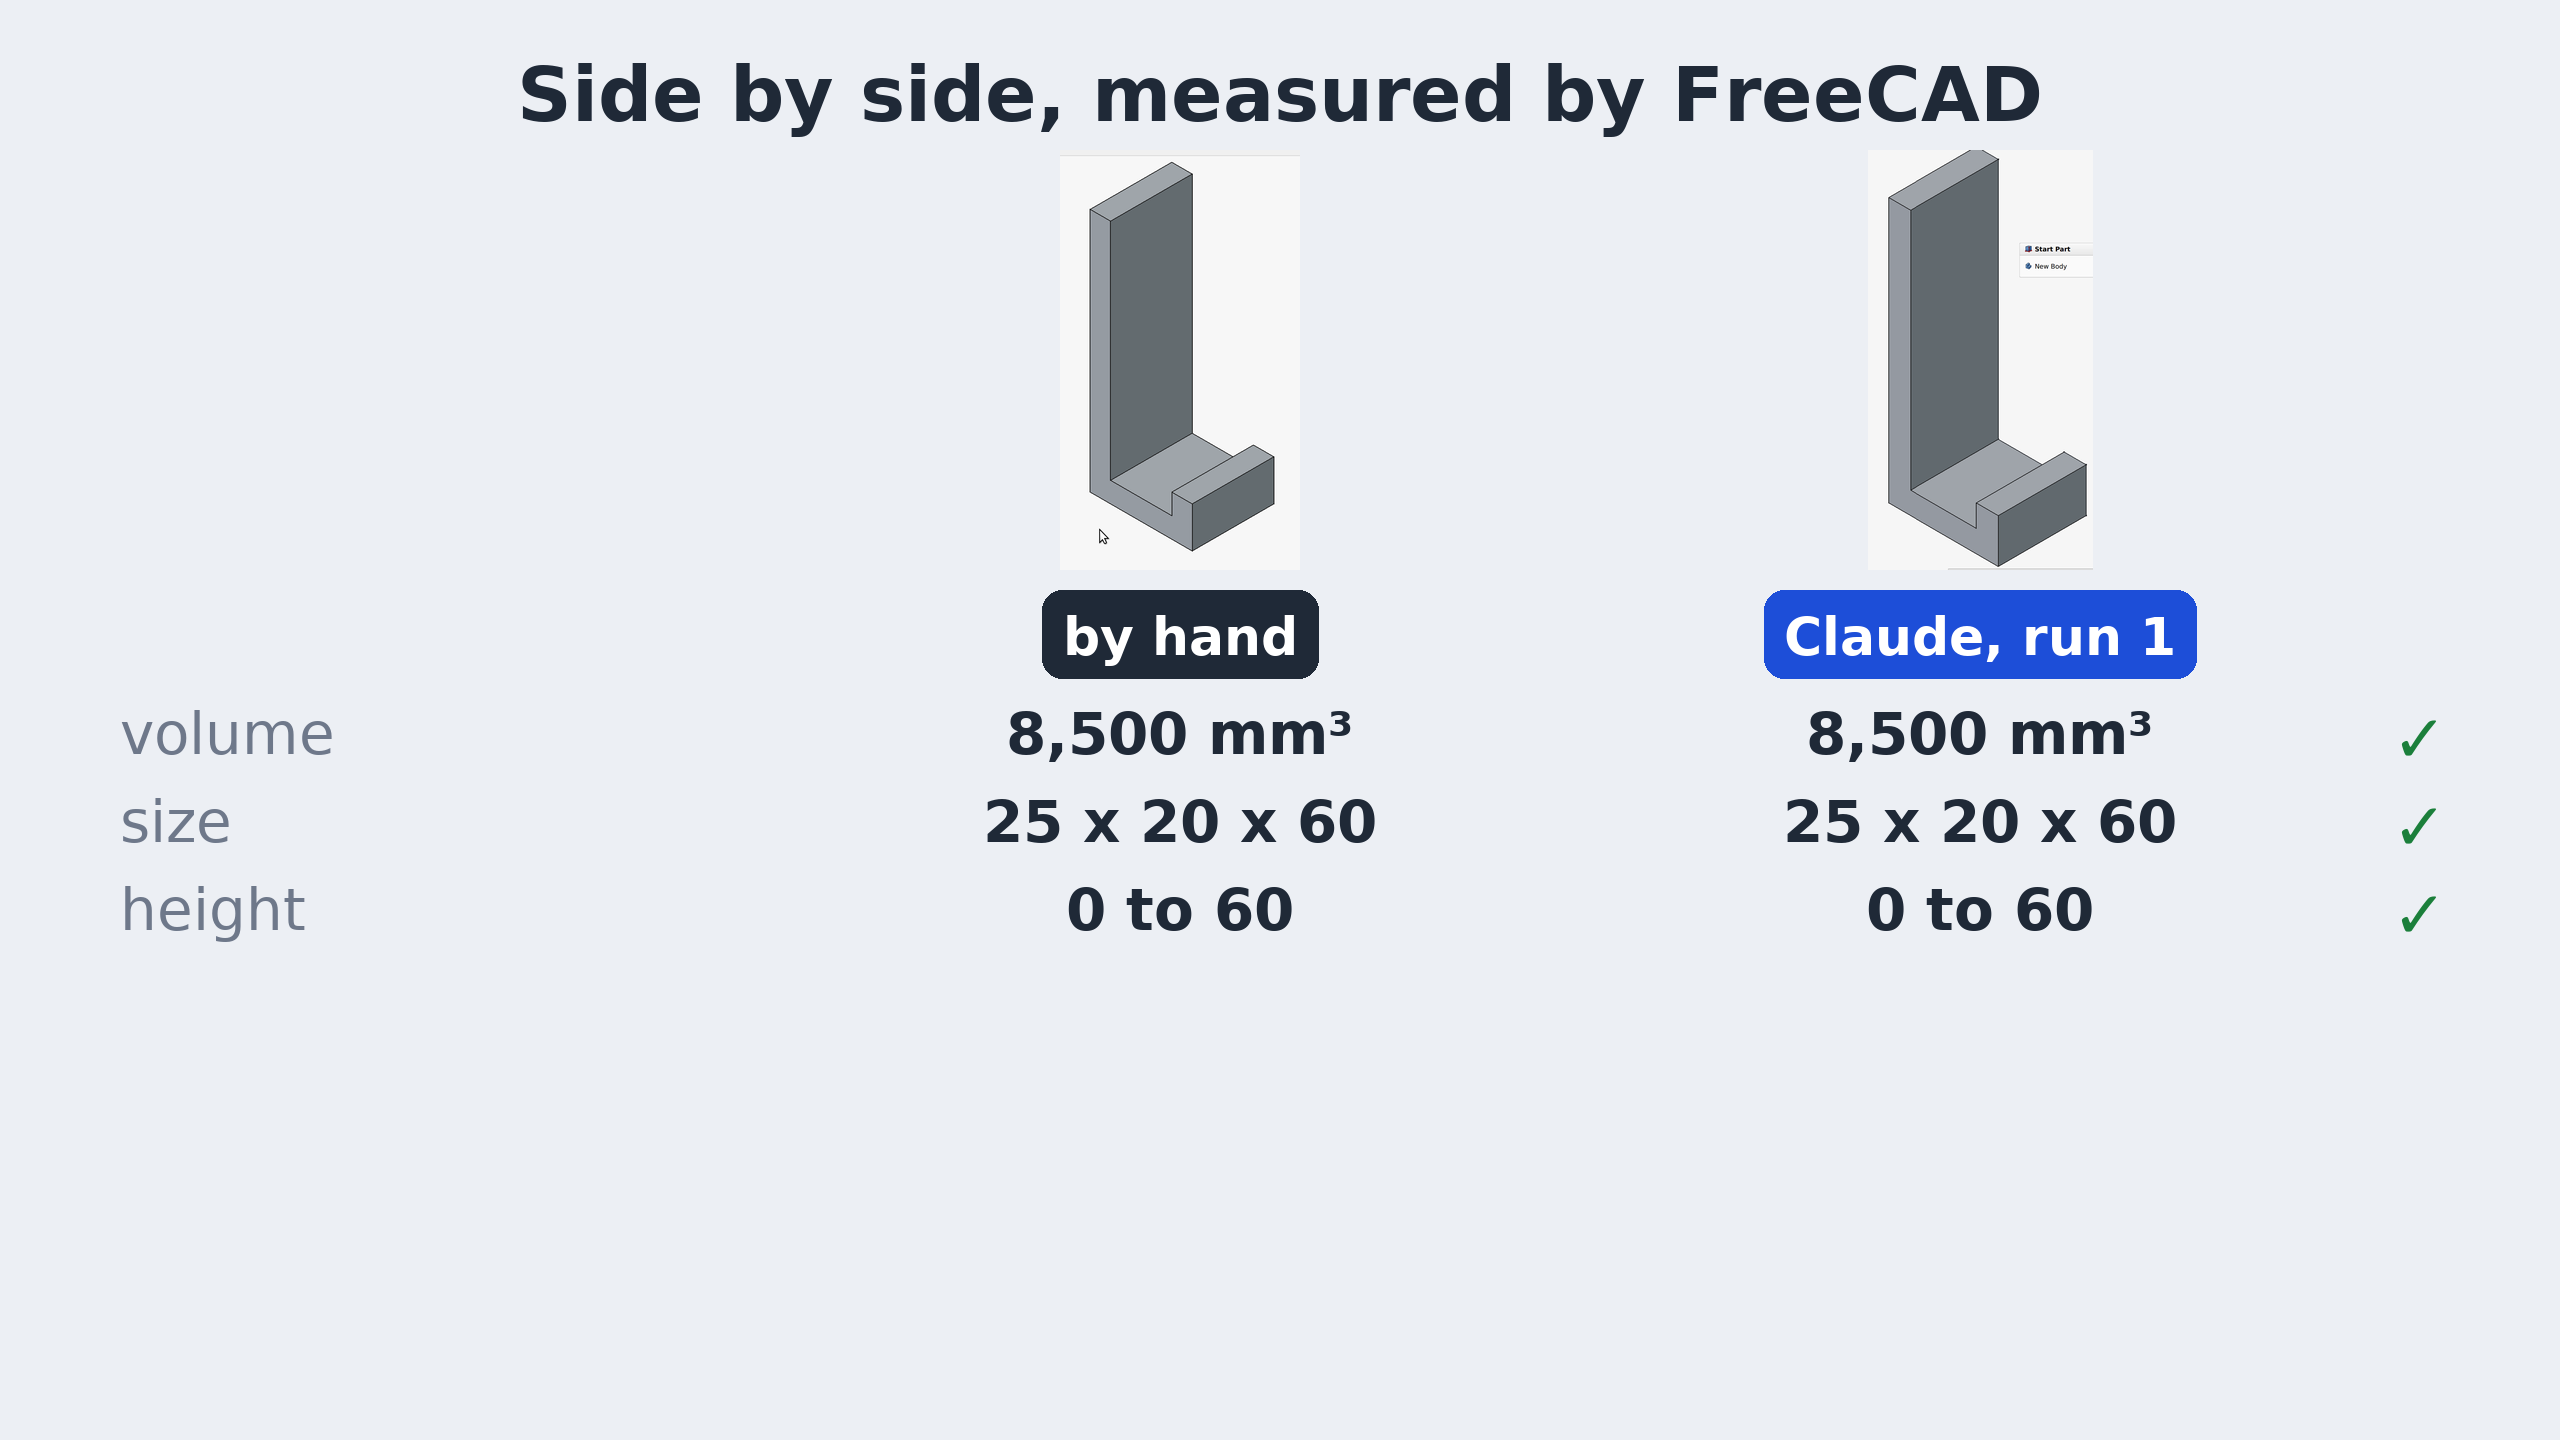
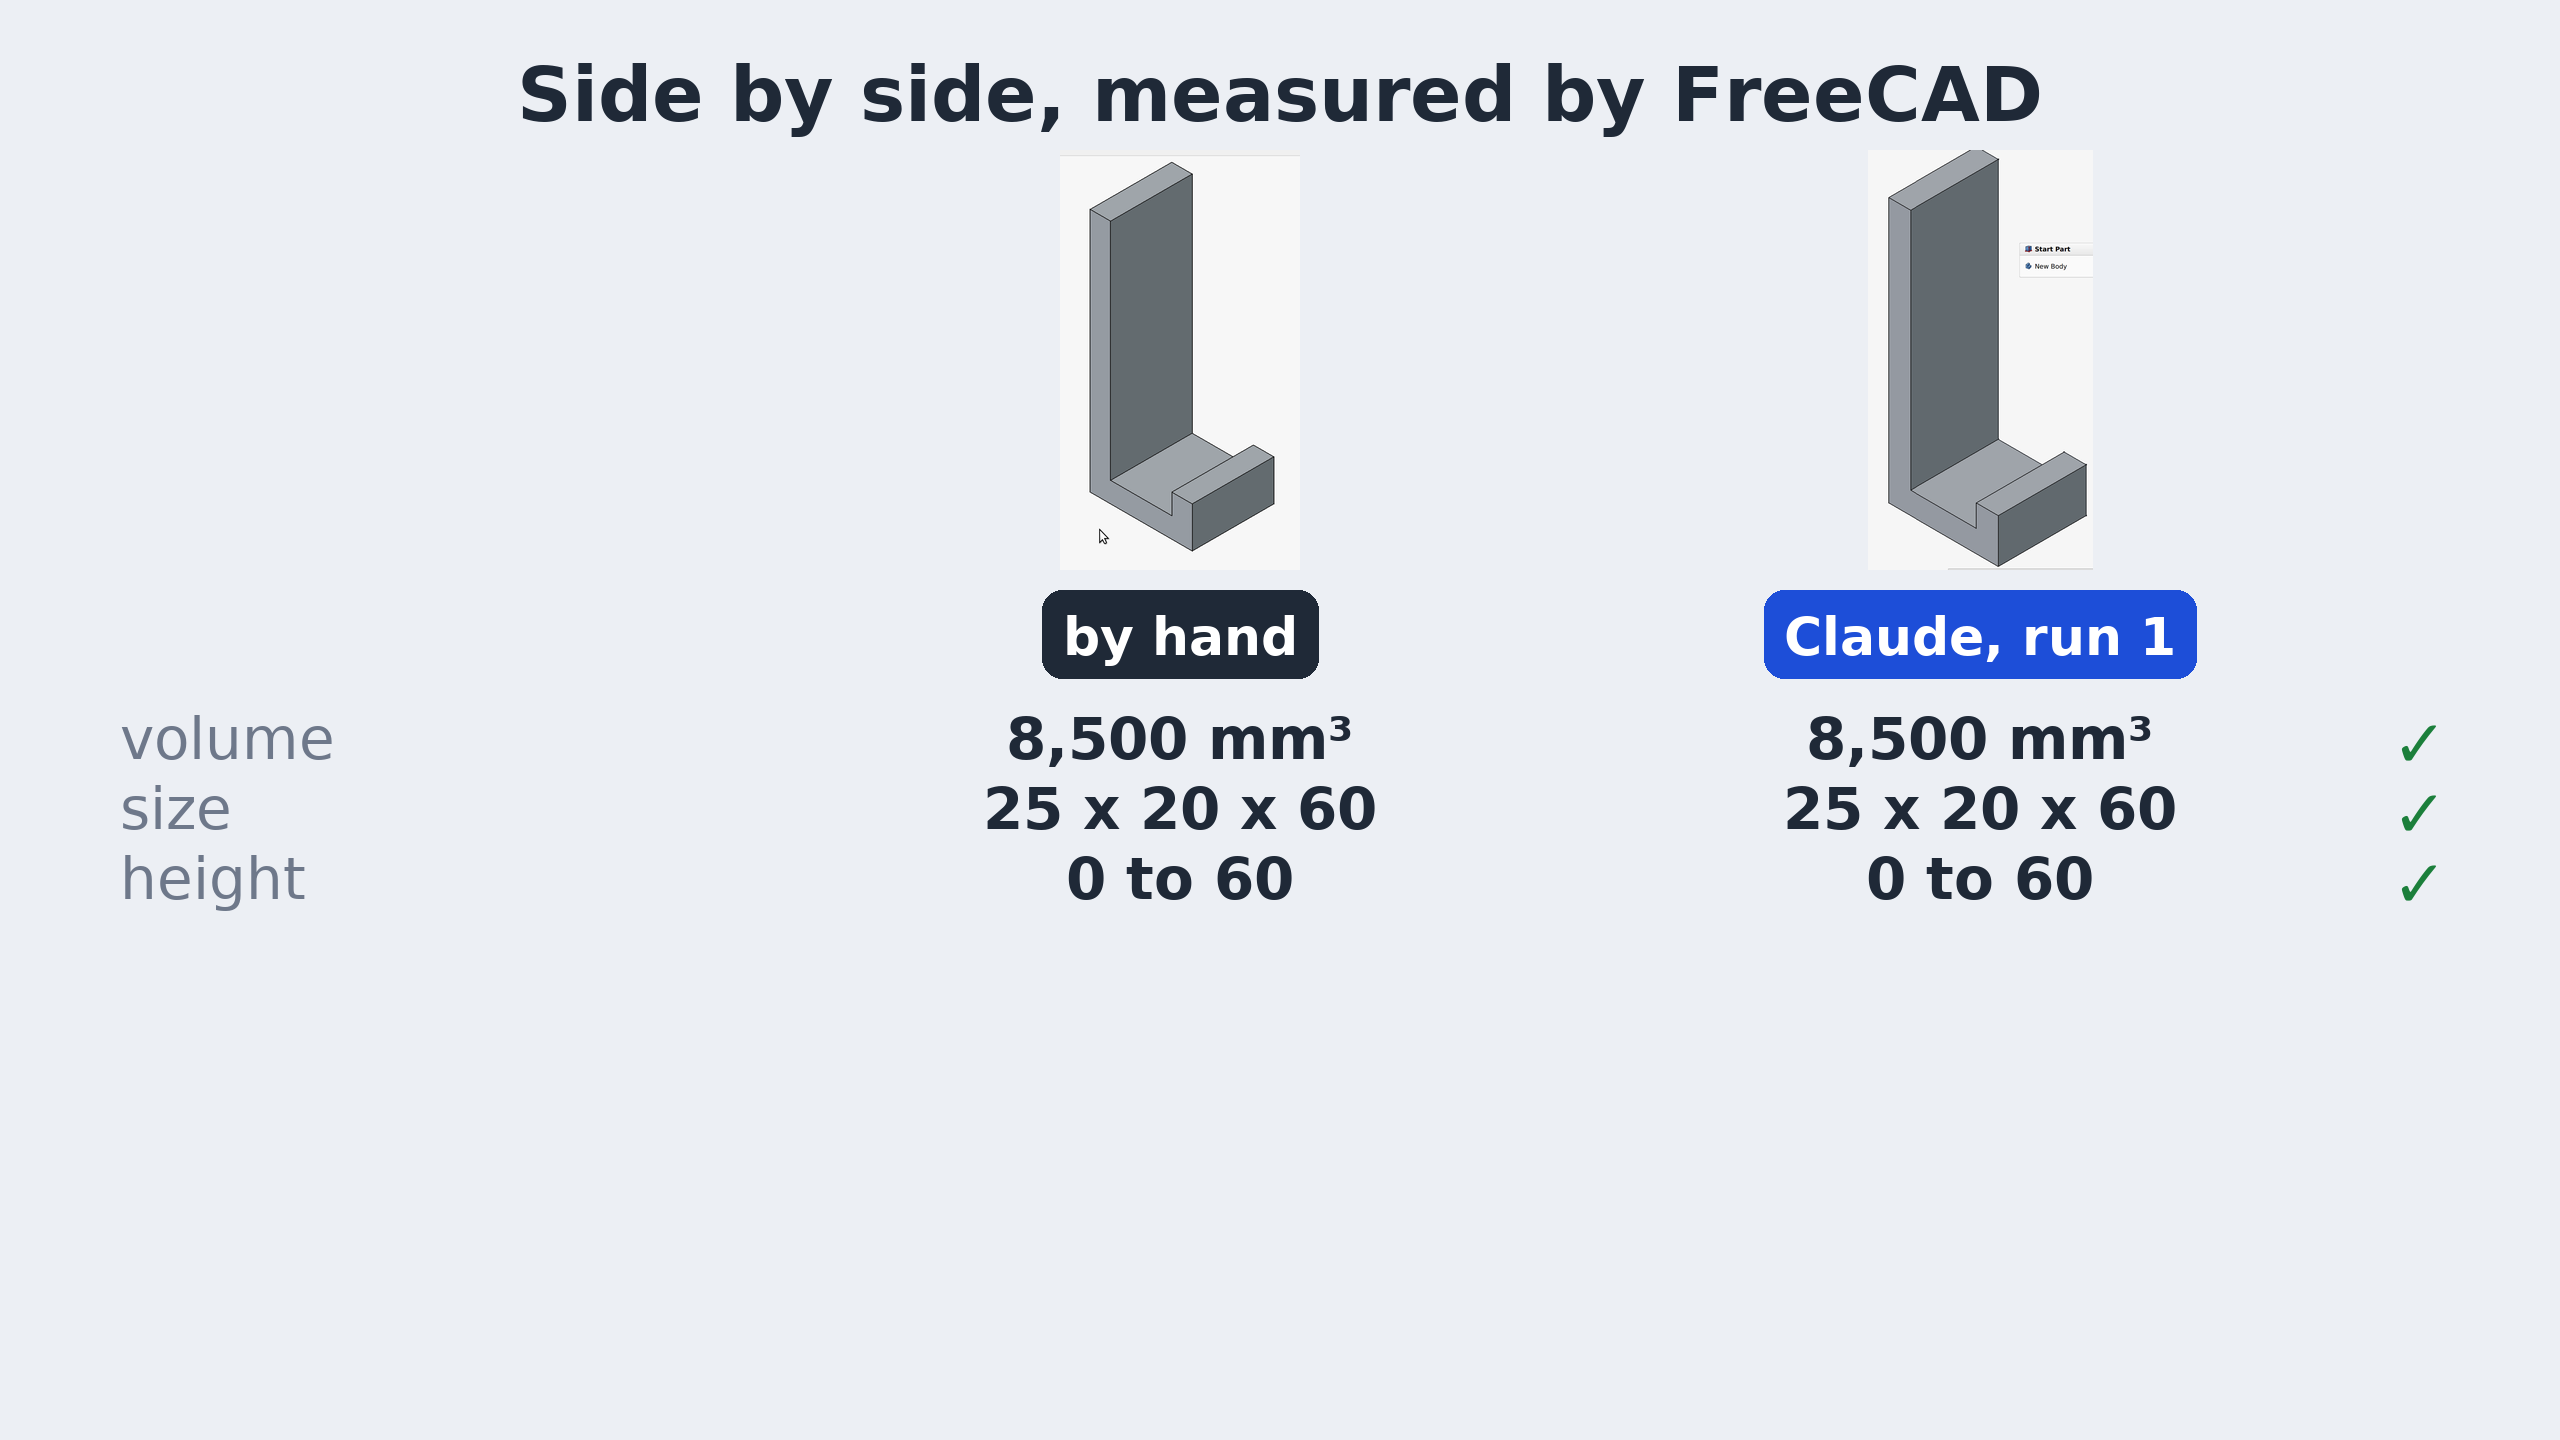
Lesson 2 cut 3 cards: two sheets (top edge up vs down), the replay's window, comparison rows re-spaced

diff --git a/video/hook_l2.py b/video/hook_l2.py
@@ -50,7 +50,7 @@ def dashed(d, y, x0, x1, col=AMBER, w=8):
         d.line((x, y, min(x + 20, x1), y), fill=col, width=w)
 
 
-SCV = ('sc2-claude-after.png', (1990, 850, 2500, 1700), 925)   # tighter crops for the 9:16 Short
+SCV = ('sc2-claude-after.png', (1880, 560, 2620, 1760), 925)   # tighter crops for the 9:16 Short
 FCV = ('run1-part.png', (1920, 220, 2500, 1420), 1404)
 
 
@@ -166,6 +166,38 @@ def cards2():
     chip(d, (1280, 1060), 'Coincident = two ends joined: 8 of them, nothing else', 56, RED)
     chip(d, (1280, 1180), 'no sizes, no level or upright rules', 56, INK)
     im.save(os.path.join(OUT, 'card-code.png')); print('card-code.png')
+    # cut 3: the cause as two sheets (the 1:07 top-edge arrow): FreeCAD's XZ, top edge up; SolidCraft's plug, top edge down
+    im = Image.new('RGB', (2560, 1440), BG)
+    d = ImageDraw.Draw(im)
+    d.text((1280, 70), 'Same XZ sheet, two plugs', font=font(B, 80), fill=INK, anchor='ma')
+    J = [(0, 0), (25, 0), (25, 10), (20, 10), (20, 5), (5, 5), (5, 60), (0, 60)]
+    for k, (x0, up, col, lab) in enumerate(((330, True, GREEN, 'FreeCAD (run 1): top edge up'),
+                                           (1430, False, RED, "SolidCraft's plug: top edge down"))):
+        d.rectangle((x0 + 18, 238, x0 + 818, 1138), fill=(200, 205, 214))
+        d.rectangle((x0, 220, x0 + 800, 1120), fill=(255, 255, 255), outline=GREY, width=5)
+        s, ox = 12, x0 + 250
+        if up:
+            pts = [(ox + x * s, 1060 - z * s) for x, z in J]
+            ay0, ay1 = 700, 300
+        else:
+            pts = [(ox + x * s, 280 + z * s) for x, z in J]
+            ay0, ay1 = 640, 1040
+        d.line(pts + [pts[0]], fill=INK, width=10)
+        ax = x0 + 700
+        d.line((ax, ay0, ax, ay1), fill=col, width=14)
+        tip = (ay1 - 50) if up else (ay1 + 50)
+        d.polygon([(ax - 30, ay1), (ax + 30, ay1), (ax, tip)], fill=col)
+        d.text((ax, tip - 60 if up else tip + 10), 'top', font=font(B, 52), fill=col, anchor='ma')
+        chip(d, (x0 + 400, 1180), lab, 52, col)
+    im.save(os.path.join(OUT, 'card-sheets.png')); print('card-sheets.png')
+    # cut 3: the no-AI replay's own window (out/l2/replay/after.png)
+    rep = Image.open(os.path.join(LAB, 'out', 'l2', 'replay', 'after.png')).convert('RGB').crop((1150, 0, 2880, 1800))
+    im = Image.new('RGB', (2560, 1440), BG)
+    d = ImageDraw.Draw(im)
+    p2 = fit(rep, 1600, 1180)
+    im.paste(p2, (1280 - p2.width // 2, 40))
+    chip(d, (1280, 1250), "no-AI replay of run 1's calls in a fresh FreeCAD: 8,500 mm³, the same 8 pins", 52, GREEN)
+    im.save(os.path.join(OUT, 'card-replay.png')); print('card-replay.png')
     # the comparison rows over the two real parts (built in 3 steps)
     rows = [('volume', '8,500 mm³', '8,500 mm³', True), ('size', '25 x 20 x 60', '25 x 20 x 60', True),
             ('height', '0 to 60', '0 to 60', True), ('lowest corner', '0, -20, 0', '0, -20, 0', True),
@@ -181,14 +213,14 @@ def cards2():
         im.paste(hand, (1180 - hand.width // 2, 150)); im.paste(cl, (1980 - cl.width // 2, 150))
         chip(d, (1180, 590), 'by hand', 52, INK); chip(d, (1980, 590), 'Claude, run 1', 52, BLUE)
         for k, (name, a, b, ok) in enumerate(rows[:upto]):
-            y = 700 + k * 88
+            y = 705 + k * 70
             col = INK if ok else RED
             d.text((120, y), name, font=font(B if not ok else R, 58), fill=GREY if ok else RED)
             d.text((1180, y), a, font=font(B, 58), fill=INK, anchor='ma')
             d.text((1980, y), b, font=font(B, 58), fill=col, anchor='ma')
             d.text((2420, y), '✓' if ok else '✗', font=font(B, 66), fill=GREEN if ok else RED, anchor='ma')
         if n == 3:
-            chip(d, (1280, 1405 - 80), PIN_NOTE, 40, GREY)
+            chip(d, (1280, 1300), PIN_NOTE, 48, GREY)
             chip(d, (2150, 150), 'run 2 (fresh): the same, 8 pins', 40, BLUE)
         im.save(os.path.join(OUT, f'card-compare-{n}.png')); print(f'card-compare-{n}.png')
 

diff --git a/video/draw_l2.py b/video/draw_l2.py
@@ -91,7 +91,8 @@ def card_paper():
     d.line((1980, 700, 1980, 300), fill=GREEN, width=14)
     d.polygon([(1950, 300), (2010, 300), (1980, 250)], fill=GREEN)
     text(d, (2020, 280), 'top edge', 64, GREEN, anchor='lm')
-    text(d, (2020, 360), 'decides which way is up', 52, GREY, R, anchor='lm')
+    text(d, (2020, 360), 'sets which way', 52, GREY, R, anchor='lm')
+    text(d, (2020, 430), 'is up', 52, GREY, R, anchor='lm')
     chip(d, (W / 2, 1270), 'flat lines · no thickness yet', 64, anchor='m')
     save(im, 'card-paper.png')
 
@@ -140,7 +141,7 @@ def card_joutline_steps():
             kx, ky = ox + 13 * s, oy - 5 * s
             d.line((kx, ky, kx, ky + 40), fill=AMBER, width=10)
             d.ellipse((kx - 34, ky + 40, kx + 34, ky + 108), outline=AMBER, width=12)
-            chip(d, (2440, 1250), 'a J facing the other way', 60, anchor='r')
+        chip(d, (2440, 200), 'a J facing the other way', 60, anchor='r')
         save(im, f'card-joutline-{step}.png')
 
 
